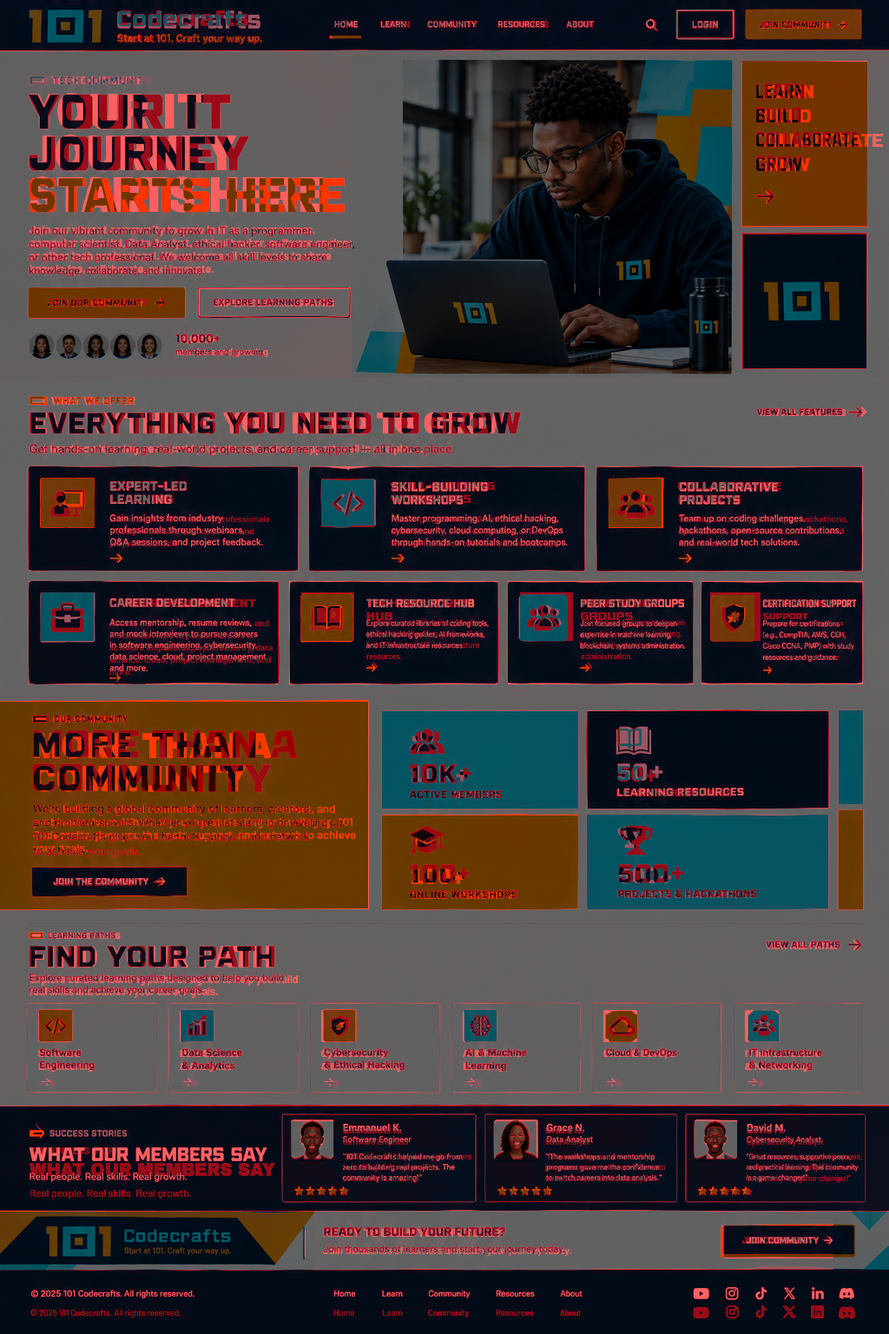
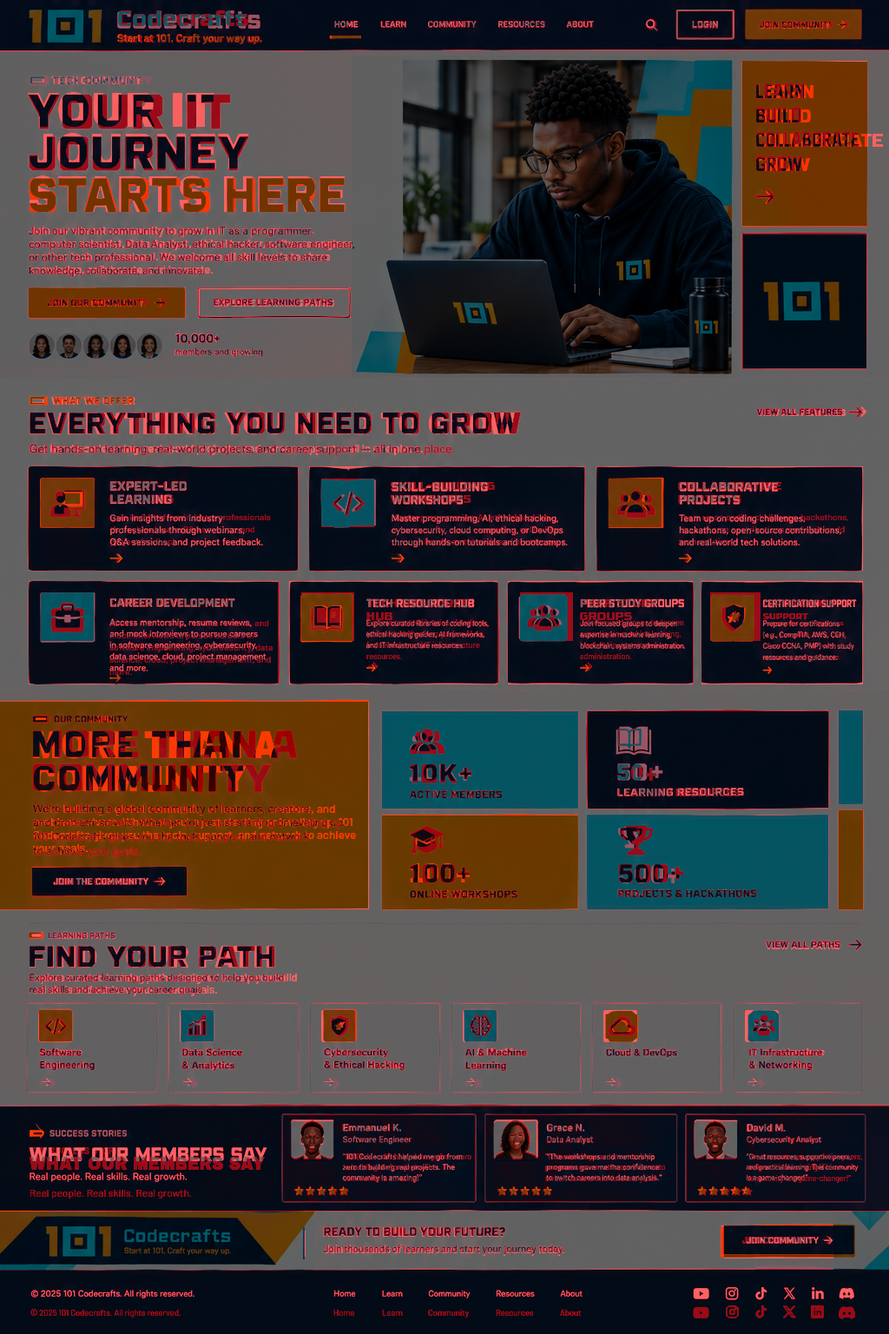
Round: auto text-fit tuner for both pages (dash 0.8399, landing 0.7611)

diff --git a/css/dashboard.fit.css b/css/dashboard.fit.css
@@ -1,0 +1,87 @@
+/* generated by tools/tune.py: per-element nudges that align text with the mockup */
+.app > :nth-child(1) > :nth-child(3){translate:-1.00px -2.00px;font-size:10.13px !important;scale:1 1.1278;transform-origin:0 0}
+.app > :nth-child(1) > :nth-child(5) > :nth-child(1) > :nth-child(2){translate:0.00px 2.00px;font-size:15.44px !important;scale:1 0.9714;transform-origin:0 0}
+.app > :nth-child(1) > :nth-child(5) > :nth-child(2) > :nth-child(2){translate:1.00px 2.00px;font-size:12.97px !important;scale:1 0.8805;transform-origin:0 0}
+.app > :nth-child(1) > :nth-child(5) > :nth-child(4) > :nth-child(2){translate:0.00px 1.00px;font-size:13.40px !important;scale:1 1.0000;transform-origin:0 0}
+.app > :nth-child(1) > :nth-child(5) > :nth-child(6) > :nth-child(2){translate:0.00px 1.00px;font-size:13.40px !important;scale:1 1.0000;transform-origin:0 0}
+.app > :nth-child(1) > :nth-child(5) > :nth-child(8) > :nth-child(2){translate:0.00px 0.00px;font-size:13.65px !important;scale:1 0.9818;transform-origin:0 0}
+.app > :nth-child(1) > :nth-child(5) > :nth-child(9) > :nth-child(2){translate:0.00px 1.00px;font-size:13.59px !important;scale:1 1.0843;transform-origin:0 0}
+.app > :nth-child(1) > :nth-child(7){translate:-1.00px 0.00px;font-size:12.68px !important;scale:1 1.0360;transform-origin:0 0}
+.app > :nth-child(1) > :nth-child(8) > :nth-child(1) > :nth-child(2){translate:0.00px 0.00px;font-size:12.97px !important;scale:1 1.0389;transform-origin:0 0}
+.app > :nth-child(1) > :nth-child(8) > :nth-child(2) > :nth-child(2){translate:0.00px 1.00px;font-size:12.77px !important;scale:1 0.8940;transform-origin:0 0}
+.app > :nth-child(1) > :nth-child(8) > :nth-child(3) > :nth-child(2){translate:0.00px 0.00px;font-size:12.73px !important;scale:1 1.0526;transform-origin:0 0}
+.app > :nth-child(1) > :nth-child(8) > :nth-child(4) > :nth-child(2){translate:0.00px 0.00px;font-size:12.91px !important;scale:1 1.0377;transform-origin:0 0}
+.app > :nth-child(1) > :nth-child(10) > :nth-child(3){translate:-1.00px 0.00px;font-size:13.00px !important;scale:1 1.0000;transform-origin:0 0}
+.app > :nth-child(3) > :nth-child(2){translate:0.00px 1.00px;font-size:11.81px !important;scale:1 1.1180;transform-origin:0 0}
+.app > :nth-child(14) > :nth-child(3){translate:0.00px 1.00px;font-size:46.40px !important;scale:1 1.0000;transform-origin:0 0}
+.app > :nth-child(16) > :nth-child(2){translate:0.00px 0.00px;font-size:22.54px !important;scale:1 0.9723;transform-origin:0 0}
+.app > :nth-child(16) > :nth-child(3){translate:0.00px -1.00px;font-size:11.14px !important;scale:1 1.1106;transform-origin:0 0}
+.app > :nth-child(17) > :nth-child(3){translate:0.00px -1.00px;font-size:10.68px !important;scale:1 1.0303;transform-origin:0 0}
+.app > :nth-child(18) > :nth-child(3){translate:0.00px -1.00px;font-size:11.15px !important;scale:1 1.0847;transform-origin:0 0}
+.app > :nth-child(21){translate:-1.00px 0.00px;font-size:15.81px !important;scale:1 1.0000;transform-origin:0 0}
+.app > :nth-child(22){translate:0.00px -1.00px;font-size:12.70px !important;scale:1 0.9924;transform-origin:0 0}
+.app > :nth-child(23){translate:1.00px 2.00px;font-size:11.84px !important;scale:1 0.9505;transform-origin:0 0}
+.app > :nth-child(24) > :nth-child(4){translate:-2.00px 1.00px;font-size:9.40px !important;scale:1 0.9577;transform-origin:0 0}
+.app > :nth-child(25) > :nth-child(3){translate:0.00px -1.00px;font-size:10.50px !important;scale:1 1.0000;transform-origin:0 0}
+.app > :nth-child(25) > :nth-child(4){translate:-2.00px 1.00px;font-size:9.36px !important;scale:1 0.9615;transform-origin:0 0}
+.app > :nth-child(26) > :nth-child(4){translate:-3.00px 0.00px;font-size:9.00px !important;scale:1 1.0000;transform-origin:0 0}
+.app > :nth-child(28) > :nth-child(4){translate:-2.00px 0.00px;font-size:9.28px !important;scale:1 0.9701;transform-origin:0 0}
+.app > :nth-child(31){translate:0.00px 0.00px;font-size:16.29px !important;scale:1 0.9639;transform-origin:0 0}
+.app > :nth-child(32){translate:1.00px -1.00px;font-size:12.17px !important;scale:1 0.9417;transform-origin:0 0}
+.app > :nth-child(34) > :nth-child(3){translate:1.00px 0.00px;font-size:10.67px !important;scale:1 0.9375;transform-origin:0 0}
+.app > :nth-child(35) > :nth-child(3){translate:0.00px 0.00px;font-size:10.78px !important;scale:1 0.9278;transform-origin:0 0}
+.app > :nth-child(36) > :nth-child(2){translate:-2.00px 0.00px;font-size:10.64px !important;scale:1 0.9872;transform-origin:0 0}
+.app > :nth-child(36) > :nth-child(3){translate:-2.00px 0.00px;font-size:10.19px !important;scale:1 1.1213;transform-origin:0 0}
+.app > :nth-child(37) > :nth-child(2){translate:-1.00px 0.00px;font-size:10.66px !important;scale:1 1.0000;transform-origin:0 0}
+.app > :nth-child(37) > :nth-child(3){translate:-1.00px 0.00px;font-size:10.66px !important;scale:1 0.9385;transform-origin:0 0}
+.app > :nth-child(39) > :nth-child(2){translate:-2.00px 0.00px;font-size:10.14px !important;scale:1 0.9860;transform-origin:0 0}
+.app > :nth-child(39) > :nth-child(3){translate:-2.00px 0.00px;font-size:9.77px !important;scale:1 1.0233;transform-origin:0 0}
+.app > :nth-child(42){translate:0.00px -3.00px;font-size:12.56px !important;scale:1 1.0000;transform-origin:0 0}
+.app > :nth-child(43) > :nth-child(2){translate:0.00px -1.00px;font-size:10.00px !important;scale:1 1.0000;transform-origin:0 0}
+.app > :nth-child(43) > :nth-child(3){translate:0.00px -3.00px;font-size:9.38px !important;scale:1 1.1963;transform-origin:0 0}
+.app > :nth-child(43) > :nth-child(5){translate:-1.00px 3.00px;font-size:9.50px !important;scale:1 1.0000;transform-origin:0 0}
+.app > :nth-child(43) > :nth-child(6){translate:0.00px 5.00px;font-size:8.32px !important;scale:1 0.9035;transform-origin:0 0}
+.app > :nth-child(44) > :nth-child(3){translate:2.00px -1.00px;font-size:9.50px !important;scale:1 1.0000;transform-origin:0 0}
+.app > :nth-child(44) > :nth-child(4){translate:-1.00px 0.00px;font-size:10.80px !important;scale:1 1.0000;transform-origin:0 0}
+.app > :nth-child(44) > :nth-child(5){translate:-2.00px 4.00px;font-size:9.87px !important;scale:1 0.9782;transform-origin:0 0}
+.app > :nth-child(44) > :nth-child(6){translate:0.00px 6.00px;font-size:9.00px !important;scale:1 0.9178;transform-origin:0 0}
+.app > :nth-child(45) > :nth-child(2){translate:1.00px 0.00px;font-size:9.46px !important;scale:1 1.0571;transform-origin:0 0}
+.app > :nth-child(45) > :nth-child(3){translate:1.00px -1.00px;font-size:8.98px !important;scale:1 1.0575;transform-origin:0 0}
+.app > :nth-child(45) > :nth-child(5){translate:-1.00px 4.00px;font-size:9.88px !important;scale:1 0.9768;transform-origin:0 0}
+.app > :nth-child(45) > :nth-child(6){translate:0.00px 6.00px;font-size:8.29px !important;scale:1 0.9223;transform-origin:0 0}
+.app > :nth-child(46) > :nth-child(3){translate:0.00px 0.00px;font-size:14.88px !important;scale:1 1.0802;transform-origin:0 0}
+.app > :nth-child(48) > :nth-child(2){translate:1.00px 1.00px;font-size:14.00px !important;scale:1 1.0070;transform-origin:0 0}
+.app > :nth-child(57) > :nth-child(2){translate:0.00px 1.00px;font-size:10.08px !important;scale:1 1.1019;transform-origin:0 0}
+.app > :nth-child(57) > :nth-child(3){translate:1.00px -6.00px;font-size:9.08px !important;scale:1 1.0000;transform-origin:0 0}
+.app > :nth-child(57) > :nth-child(4){translate:7.00px 3.00px;font-size:8.00px !important;scale:1 1.0000;transform-origin:0 0}
+.app > :nth-child(58) > :nth-child(2){translate:0.00px 1.00px;font-size:10.25px !important;scale:1 1.0842;transform-origin:0 0}
+.app > :nth-child(58) > :nth-child(3){translate:0.00px 0.00px;font-size:9.26px !important;scale:1 1.0000;transform-origin:0 0}
+.app > :nth-child(58) > :nth-child(4){translate:8.00px 3.00px;font-size:8.62px !important;scale:1 0.9286;transform-origin:0 0}
+.app > :nth-child(59) > :nth-child(2){translate:1.00px 1.00px;font-size:10.20px !important;scale:1 1.0889;transform-origin:0 0}
+.app > :nth-child(59) > :nth-child(3){translate:1.00px 3.00px;font-size:9.54px !important;scale:1 1.0487;transform-origin:0 0}
+.app > :nth-child(59) > :nth-child(4){translate:6.00px 4.00px;font-size:8.00px !important;scale:1 1.0000;transform-origin:0 0}
+.app > :nth-child(60) > :nth-child(2){translate:1.00px 3.00px;font-size:9.85px !important;scale:1 1.1285;transform-origin:0 0}
+.app > :nth-child(60) > :nth-child(3){translate:0.00px -6.00px;font-size:9.36px !important;scale:1 1.0000;transform-origin:0 0}
+.app > :nth-child(60) > :nth-child(4){translate:8.00px 6.00px;font-size:8.74px !important;scale:1 1.0619;transform-origin:0 0}
+.app > :nth-child(63){translate:0.00px -1.00px;font-size:13.63px !important;scale:1 0.9903;transform-origin:0 0}
+.app > :nth-child(64){translate:1.00px 0.00px;font-size:10.50px !important;scale:1 1.0000;transform-origin:0 0}
+.app > :nth-child(65) > :nth-child(1) > :nth-child(1){translate:1.00px -1.00px;font-size:10.56px !important;scale:1 1.0000;transform-origin:0 0}
+.app > :nth-child(65) > :nth-child(1) > :nth-child(2){translate:1.00px 0.00px;font-size:21.18px !important;scale:1 1.0641;transform-origin:0 0}
+.app > :nth-child(65) > :nth-child(3){translate:1.00px -1.00px;font-size:11.48px !important;scale:1 1.0538;transform-origin:0 0}
+.app > :nth-child(65) > :nth-child(4){translate:0.00px -1.00px;font-size:10.33px !important;scale:1 1.0509;transform-origin:0 0}
+.app > :nth-child(65) > :nth-child(5){translate:0.00px -2.00px;font-size:9.50px !important;scale:1 1.0000;transform-origin:0 0}
+.app > :nth-child(66) > :nth-child(1) > :nth-child(1){translate:1.00px -2.00px;font-size:10.56px !important;scale:1 1.0000;transform-origin:0 0}
+.app > :nth-child(66) > :nth-child(1) > :nth-child(2){translate:1.00px 0.00px;font-size:22.35px !important;scale:1 1.0081;transform-origin:0 0}
+.app > :nth-child(66) > :nth-child(3){translate:0.00px -3.00px;font-size:11.29px !important;scale:1 1.0720;transform-origin:0 0}
+.app > :nth-child(66) > :nth-child(4){translate:1.00px -2.00px;font-size:10.27px !important;scale:1 1.0571;transform-origin:0 0}
+.app > :nth-child(66) > :nth-child(5){translate:0.00px -2.00px;font-size:9.50px !important;scale:1 1.1429;transform-origin:0 0}
+.app > :nth-child(67) > :nth-child(1) > :nth-child(1){translate:1.00px -1.00px;font-size:10.56px !important;scale:1 1.0000;transform-origin:0 0}
+.app > :nth-child(67) > :nth-child(1) > :nth-child(2){translate:1.00px 0.00px;font-size:19.05px !important;scale:1 1.1375;transform-origin:0 0}
+.app > :nth-child(67) > :nth-child(3){translate:0.00px -2.00px;font-size:11.14px !important;scale:1 0.9872;transform-origin:0 0}
+.app > :nth-child(67) > :nth-child(4){translate:1.00px -2.00px;font-size:10.91px !important;scale:1 0.9677;transform-origin:0 0}
+.app > :nth-child(67) > :nth-child(5){translate:0.00px -1.00px;font-size:9.50px !important;scale:1 1.0000;transform-origin:0 0}
+.app > :nth-child(68) > :nth-child(2){translate:0.00px 1.00px;font-size:15.50px !important;scale:1 1.0000;transform-origin:0 0}
+.app > :nth-child(69) > :nth-child(1){translate:-1.00px -1.00px;font-size:10.42px !important;scale:1 1.0971;transform-origin:0 0}
+.app > :nth-child(69) > :nth-child(2){translate:-1.00px -1.00px;font-size:10.00px !important;scale:1 1.1429;transform-origin:0 0}
+.app > :nth-child(69) > :nth-child(4){translate:0.00px -1.00px;font-size:10.00px !important;scale:1 1.0000;transform-origin:0 0}
+.app > :nth-child(69) > :nth-child(5){translate:0.00px -1.00px;font-size:10.00px !important;scale:1 1.1429;transform-origin:0 0}

diff --git a/css/landing.fit.css b/css/landing.fit.css
@@ -1,0 +1,47 @@
+/* generated by tools/tune.py: per-element nudges that align text with the mockup */
+.page > :nth-child(1) > :nth-child(4) > :nth-child(2){translate:0.00px 1.00px;font-size:9.23px !important;scale:1 1.1379;transform-origin:0 0}
+.page > :nth-child(1) > :nth-child(4) > :nth-child(3){translate:1.00px 0.00px;font-size:9.96px !important;scale:1 1.0545;transform-origin:0 0}
+.page > :nth-child(1) > :nth-child(4) > :nth-child(4){translate:1.00px 0.00px;font-size:9.61px !important;scale:1 1.0926;transform-origin:0 0}
+.page > :nth-child(1) > :nth-child(4) > :nth-child(5){translate:1.00px 0.00px;font-size:9.86px !important;scale:1 1.0645;transform-origin:0 0}
+.page > :nth-child(4){translate:-1.00px 0.00px;font-size:46.81px !important;scale:1 0.9955;transform-origin:0 0}
+.page > :nth-child(6){translate:-1.00px 0.00px;font-size:47.38px !important;scale:1 1.0228;transform-origin:0 0}
+.page > :nth-child(7){translate:-1.00px 1.00px;font-size:13.00px !important;scale:1 1.0000;transform-origin:0 0}
+.page > :nth-child(15){translate:0.00px -1.00px;font-size:15.19px !important;scale:1 1.0300;transform-origin:0 0}
+.page > :nth-child(16){translate:-2.00px 0.00px;font-size:10.58px !important;scale:1 1.0396;transform-origin:0 0}
+.page > :nth-child(21){translate:-2.00px -1.00px;font-size:29.47px !important;scale:1 1.0659;transform-origin:0 0}
+.page > :nth-child(24) > :nth-child(3){translate:1.00px -2.00px;font-size:10.50px !important;scale:1 1.0000;transform-origin:0 0}
+.page > :nth-child(25) > :nth-child(3){translate:1.00px -2.00px;font-size:10.50px !important;scale:1 1.0000;transform-origin:0 0}
+.page > :nth-child(26) > :nth-child(3){translate:1.00px -2.00px;font-size:10.50px !important;scale:1 1.0000;transform-origin:0 0}
+.page > :nth-child(27) > :nth-child(2){translate:1.00px -2.00px;font-size:11.42px !important;scale:1 1.1900;transform-origin:0 0}
+.page > :nth-child(29) > :nth-child(2){translate:-1.00px 0.00px;font-size:13.50px !important;scale:1 1.0000;transform-origin:0 0}
+.page > :nth-child(29) > :nth-child(3){translate:-1.00px 0.00px;font-size:9.00px !important;scale:1 1.0000;transform-origin:0 0}
+.page > :nth-child(31) > :nth-child(1){translate:1.00px 0.00px;font-size:11.00px !important;scale:1 1.0000;transform-origin:0 0}
+.page > :nth-child(31) > :nth-child(2){translate:-1.00px -2.00px;font-size:36.02px !important;scale:1 1.0179;transform-origin:0 0}
+.page > :nth-child(31) > :nth-child(5){translate:0.00px -1.00px;font-size:10.50px !important;scale:1 1.0000;transform-origin:0 0}
+.page > :nth-child(32) > :nth-child(2){translate:-3.00px -2.00px;font-size:26.62px !important;scale:1 1.0000;transform-origin:0 0}
+.page > :nth-child(32) > :nth-child(3){translate:0.00px -1.00px;font-size:12.47px !important;scale:1 1.0825;transform-origin:0 0}
+.page > :nth-child(33) > :nth-child(2){translate:0.00px -3.00px;font-size:24.00px !important;scale:1 1.1111;transform-origin:0 0}
+.page > :nth-child(33) > :nth-child(3){translate:1.00px -2.00px;font-size:12.72px !important;scale:1 1.1032;transform-origin:0 0}
+.page > :nth-child(35) > :nth-child(2){translate:-2.00px -6.00px;font-size:27.20px !important;scale:1 1.0890;transform-origin:0 0}
+.page > :nth-child(35) > :nth-child(3){translate:0.00px -2.00px;font-size:12.40px !important;scale:1 1.0887;transform-origin:0 0}
+.page > :nth-child(36) > :nth-child(2){translate:1.00px -4.00px;font-size:27.15px !important;scale:1 1.1025;transform-origin:0 0}
+.page > :nth-child(36) > :nth-child(3){translate:0.00px -2.00px;font-size:12.31px !important;scale:1 1.0969;transform-origin:0 0}
+.page > :nth-child(39){translate:-2.00px -1.00px;font-size:9.61px !important;scale:1 1.0568;transform-origin:0 0}
+.page > :nth-child(40){translate:-1.00px 0.00px;font-size:30.21px !important;scale:1 0.9930;transform-origin:0 0}
+.page > :nth-child(41){translate:-1.00px -2.00px;font-size:12.50px !important;scale:1 1.0000;transform-origin:0 0}
+.page > :nth-child(42){translate:0.00px 0.00px;font-size:11.41px !important;scale:1 0.9640;transform-origin:0 0}
+.page > :nth-child(43) > :nth-child(2){translate:2.00px -2.00px;font-size:12.00px !important;scale:1 1.0000;transform-origin:0 0}
+.page > :nth-child(44) > :nth-child(2){translate:3.00px -2.00px;font-size:12.00px !important;scale:1 1.0000;transform-origin:0 0}
+.page > :nth-child(45) > :nth-child(2){translate:3.00px -2.00px;font-size:12.00px !important;scale:1 1.0000;transform-origin:0 0}
+.page > :nth-child(46) > :nth-child(2){translate:3.00px -2.00px;font-size:12.00px !important;scale:1 1.0000;transform-origin:0 0}
+.page > :nth-child(47) > :nth-child(2){translate:3.00px -2.00px;font-size:11.86px !important;scale:1 1.1134;transform-origin:0 0}
+.page > :nth-child(48) > :nth-child(2){translate:5.00px -2.00px;font-size:12.00px !important;scale:1 1.0000;transform-origin:0 0}
+.page > :nth-child(51){translate:0.00px -6.00px;font-size:18.67px !important;scale:1 1.0000;transform-origin:0 0}
+.page > :nth-child(53) > :nth-child(2){translate:-1.00px -3.00px;font-size:11.98px !important;scale:1 1.0149;transform-origin:0 0}
+.page > :nth-child(53) > :nth-child(3){translate:0.00px -3.00px;font-size:9.88px !important;scale:1 1.0060;transform-origin:0 0}
+.page > :nth-child(54) > :nth-child(2){translate:2.00px -3.00px;font-size:11.73px !important;scale:1 1.0000;transform-origin:0 0}
+.page > :nth-child(54) > :nth-child(3){translate:1.00px -3.00px;font-size:10.28px !important;scale:1 1.0911;transform-origin:0 0}
+.page > :nth-child(55) > :nth-child(2){translate:-1.00px -3.00px;font-size:12.78px !important;scale:1 1.0000;transform-origin:0 0}
+.page > :nth-child(55) > :nth-child(3){translate:0.00px -3.00px;font-size:9.28px !important;scale:1 1.0915;transform-origin:0 0}
+.page > :nth-child(56) > :nth-child(3){translate:0.00px -1.00px;font-size:14.34px !important;scale:1 1.0845;transform-origin:0 0}
+.page > :nth-child(56) > :nth-child(4){translate:1.00px -3.00px;font-size:11.62px !important;scale:1 1.1357;transform-origin:0 0}

diff --git a/index.html b/index.html
@@ -8,6 +8,7 @@
 <link rel="preload" href="assets/fonts/archivo-black-400.woff2" as="font" type="font/woff2" crossorigin>
 <link rel="stylesheet" href="css/brutal.css">
 <link rel="stylesheet" href="css/landing.css">
+<link rel="stylesheet" id="fitcss" href="css/landing.fit.css">
 </head>
 <body data-page="landing">
 <svg xmlns="http://www.w3.org/2000/svg" style="display:none">
@@ -91,9 +92,9 @@
 <!-- ============ HERO ============ -->
 <section class="lhero"><canvas class="fx-canvas" data-fx="grid"></canvas></section>
 <div class="eyebrow" style="left:35px;top:84px;color:#00b9e6"><i></i>TECH COMMUNITY</div>
-<h1 class="disp split" style="left:33px;top:100px;font-size:44px;transform:scaleY(1.285);color:var(--nv)">YOUR IT</h1>
-<div class="disp split" style="left:33px;top:148px;font-size:44px;transform:scaleY(1.285);color:var(--nv)">JOURNEY</div>
-<div class="disp split" style="left:33px;top:196px;font-size:44px;transform:scaleY(1.285);color:var(--lor)">STARTS HERE</div>
+<h1 class="disp split" style="left:33px;top:100px;font-size:46.6px;transform:scaleY(1.208);color:var(--nv)">YOUR IT</h1>
+<div class="disp split" style="left:33px;top:148px;font-size:46.6px;transform:scaleY(1.208);color:var(--nv)">JOURNEY</div>
+<div class="disp split" style="left:33px;top:196px;font-size:46.6px;transform:scaleY(1.208);color:var(--lor)">STARTS HERE</div>
 <p style="left:34px;top:257px;width:385px;font-size:13px;line-height:15px;font-weight:500;color:var(--nv)">Join our vibrant community to grow in IT as a programmer, computer scientist, Data Analyst, ethical hacker, software engineer, or other tech professional. We welcome all skill levels to share knowledge, collaborate, and innovate.</p>
 <a class="btn-or hov" href="dashboard.html" style="left:33px;top:331px;width:180px;height:35px">JOIN OUR COMMUNITY <svg class="i" style="width:15px;height:15px"><use href="#i-arrow"/></svg></a>
 <a class="btn-ol hov" href="#paths" style="left:228px;top:331px;width:176px;height:35px">EXPLORE LEARNING PATHS</a>

diff --git a/src/index.html b/src/index.html
@@ -8,6 +8,7 @@
 <link rel="preload" href="assets/fonts/archivo-black-400.woff2" as="font" type="font/woff2" crossorigin>
 <link rel="stylesheet" href="css/brutal.css">
 <link rel="stylesheet" href="css/landing.css">
+<link rel="stylesheet" id="fitcss" href="css/landing.fit.css">
 </head>
 <body data-page="landing">
 {{ICONS}}
@@ -33,9 +34,9 @@
 <!-- ============ HERO ============ -->
 <section class="lhero"><canvas class="fx-canvas" data-fx="grid"></canvas></section>
 <div class="eyebrow" style="left:35px;top:84px;color:#00b9e6"><i></i>TECH COMMUNITY</div>
-<h1 class="disp split" style="left:33px;top:100px;font-size:44px;transform:scaleY(1.285);color:var(--nv)">YOUR IT</h1>
-<div class="disp split" style="left:33px;top:148px;font-size:44px;transform:scaleY(1.285);color:var(--nv)">JOURNEY</div>
-<div class="disp split" style="left:33px;top:196px;font-size:44px;transform:scaleY(1.285);color:var(--lor)">STARTS HERE</div>
+<h1 class="disp split" style="left:33px;top:100px;font-size:46.6px;transform:scaleY(1.208);color:var(--nv)">YOUR IT</h1>
+<div class="disp split" style="left:33px;top:148px;font-size:46.6px;transform:scaleY(1.208);color:var(--nv)">JOURNEY</div>
+<div class="disp split" style="left:33px;top:196px;font-size:46.6px;transform:scaleY(1.208);color:var(--lor)">STARTS HERE</div>
 <p style="left:34px;top:257px;width:385px;font-size:13px;line-height:15px;font-weight:500;color:var(--nv)">Join our vibrant community to grow in IT as a programmer, computer scientist, Data Analyst, ethical hacker, software engineer, or other tech professional. We welcome all skill levels to share knowledge, collaborate, and innovate.</p>
 <a class="btn-or hov" href="dashboard.html" style="left:33px;top:331px;width:180px;height:35px">JOIN OUR COMMUNITY <svg class="i" style="width:15px;height:15px"><use href="#i-arrow"/></svg></a>
 <a class="btn-ol hov" href="#paths" style="left:228px;top:331px;width:176px;height:35px">EXPLORE LEARNING PATHS</a>

diff --git a/dashboard.html b/dashboard.html
@@ -7,6 +7,7 @@
 <link rel="preload" href="assets/fonts/archivo-black-400.woff2" as="font" type="font/woff2" crossorigin>
 <link rel="stylesheet" href="css/brutal.css">
 <link rel="stylesheet" href="css/dashboard.css">
+<link rel="stylesheet" id="fitcss" href="css/dashboard.fit.css">
 </head>
 <body data-page="dashboard" data-role="member">
 <svg xmlns="http://www.w3.org/2000/svg" style="display:none">

diff --git a/src/dashboard.html b/src/dashboard.html
@@ -7,6 +7,7 @@
 <link rel="preload" href="assets/fonts/archivo-black-400.woff2" as="font" type="font/woff2" crossorigin>
 <link rel="stylesheet" href="css/brutal.css">
 <link rel="stylesheet" href="css/dashboard.css">
+<link rel="stylesheet" id="fitcss" href="css/dashboard.fit.css">
 </head>
 <body data-page="dashboard" data-role="member">
 {{ICONS}}

diff --git a/tools/tune.py b/tools/tune.py
@@ -1,0 +1,114 @@
+"""Auto-fit text elements to the mockup.
+For every leaf text element: find its ink box in the mockup and in the render (same local window),
+then nudge position (translate) and, for single-line text, font-size / vertical scale so the boxes match.
+A change is kept only if the local SSIM of that element's window improves.
+Writes css/<page>.fit.css (plain CSS overrides keyed by structural selectors).
+usage: tune.py page.html ref.png W H out.css [passes]
+"""
+import sys, os, json, asyncio, io
+import numpy as np
+from PIL import Image
+from skimage.metrics import structural_similarity as ssim
+from playwright.async_api import async_playwright
+
+page, refp, W, H, outcss = sys.argv[1], sys.argv[2], int(sys.argv[3]), int(sys.argv[4]), sys.argv[5]
+PASSES = int(sys.argv[6]) if len(sys.argv) > 6 else 4
+REF = np.array(Image.open(refp).convert('L')).astype(float)
+PX, PY = 6, 4
+
+JS_COLLECT = r"""
+() => {
+  const root = document.querySelector('.app, .page');
+  const out = [];
+  const path = el => { const p=[]; while (el && el !== root) { const i=[...el.parentElement.children].indexOf(el)+1; p.unshift(`:nth-child(${i})`); el = el.parentElement; } return (root.classList.contains('app')?'.app':'.page')+' > '+p.join(' > '); };
+  root.querySelectorAll('*').forEach(el => {
+    if (el.closest('svg')) return;
+    const own = [...el.childNodes].some(n => n.nodeType===3 && n.textContent.trim().length>1);
+    if (!own) return;
+    const r = el.getBoundingClientRect();
+    if (r.width<4 || r.height<4) return;
+    const cs = getComputedStyle(el);
+    const lh = parseFloat(cs.lineHeight) || parseFloat(cs.fontSize)*1.25;
+    out.push({sel:path(el), x:r.left, y:r.top, w:r.width, h:r.height, fs:parseFloat(cs.fontSize), single: r.height < lh*1.6});
+  });
+  return out;
+}"""
+
+def ink(a):
+    border = np.concatenate([a[0], a[-1], a[:, 0], a[:, -1]])
+    bg = np.median(border)
+    m = np.abs(a - bg) > 55
+    ys, xs = np.where(m)
+    if len(xs) < 6: return None
+    return xs.min(), ys.min(), xs.max() + 1, ys.max() + 1
+
+def win(e):
+    x0 = max(0, int(e['x'] - PX)); y0 = max(0, int(e['y'] - PY))
+    x1 = min(W, int(e['x'] + e['w'] + PX)); y1 = min(H, int(e['y'] + e['h'] + PY))
+    return x0, y0, x1, y1
+
+def lssim(A, B, w):
+    x0, y0, x1, y1 = w
+    a, b = A[y0:y1, x0:x1], B[y0:y1, x0:x1]
+    if min(a.shape) < 7: return 0
+    return ssim(a, b, data_range=255)
+
+async def main():
+    async with async_playwright() as p:
+        br = await p.chromium.launch(executable_path='/usr/bin/chromium', args=['--no-sandbox', '--font-render-hinting=none'])
+        pg = await br.new_page(viewport={'width': W, 'height': H})
+        await pg.goto('file://' + os.path.abspath(page) + '?static=1&notune=1')
+        await pg.evaluate('document.fonts.ready'); await pg.wait_for_timeout(300)
+        await pg.evaluate("()=>{const l=document.getElementById('fitcss'); if(l) l.remove();}"); await pg.wait_for_timeout(100)
+        els = await pg.evaluate(JS_COLLECT)
+        state = {e['sel']: {'dx': 0.0, 'dy': 0.0, 'fs': e['fs'], 'k': 1.0, 'fs0': e['fs']} for e in els}
+        info = {e['sel']: e for e in els}
+
+        async def apply(st):
+            css = ''.join(f"{s}{{translate:{v['dx']:.2f}px {v['dy']:.2f}px;font-size:{v['fs']:.2f}px !important;scale:1 {v['k']:.4f};transform-origin:0 0}}\n" for s, v in st.items() if v['dx'] or v['dy'] or v['fs'] != v['fs0'] or v['k'] != 1)
+            await pg.evaluate("css => { let s=document.getElementById('__tune'); if(!s){s=document.createElement('style');s.id='__tune';document.head.appendChild(s);} s.textContent=css; }", css)
+            await pg.wait_for_timeout(60)
+            return css
+
+        async def shot():
+            b = await pg.screenshot()
+            return np.array(Image.open(io.BytesIO(b)).convert('L')).astype(float)
+
+        await apply(state)
+        cur = await shot()
+        base = {s: lssim(REF, cur, win(info[s])) for s in state}
+        print('elements', len(els), 'mean local ssim', round(float(np.mean(list(base.values()))), 4))
+        for it in range(PASSES):
+            prop = {}
+            for s, e in info.items():
+                w = win(e); x0, y0, x1, y1 = w
+                # account for current translate when locating the window
+                v = state[s]
+                w2 = (max(0, int(x0 + v['dx'])), max(0, int(y0 + v['dy'])), min(W, int(x1 + v['dx']) + 1), min(H, int(y1 + v['dy']) + 1))
+                a = ink(REF[w2[1]:w2[3], w2[0]:w2[2]]); b = ink(cur[w2[1]:w2[3], w2[0]:w2[2]])
+                if not a or not b: continue
+                nv = dict(v)
+                if e['single'] and it < PASSES - 1:
+                    rw, bw = a[2] - a[0], b[2] - b[0]; rh, bh = a[3] - a[1], b[3] - b[1]
+                    if bw > 8 and 0.85 < rw / bw < 1.15: nv['fs'] = v['fs'] * rw / bw
+                    if bh > 5 and 0.85 < (rh / bh) < 1.15: nv['k'] = max(.85, min(1.3, v['k'] * (rh / bh) / (rw / bw if bw > 8 and 0.85 < rw / bw < 1.15 else 1)))
+                nv['dx'] = v['dx'] + max(-6, min(6, a[0] - b[0]))
+                nv['dy'] = v['dy'] + max(-6, min(6, a[1] - b[1]))
+                prop[s] = nv
+            trial = dict(state); trial.update(prop)
+            await apply(trial)
+            new = await shot()
+            kept = 0
+            for s in prop:
+                w = win(info[s]); w = (max(0, w[0] - 6), max(0, w[1] - 6), min(W, w[2] + 6), min(H, w[3] + 6))
+                if lssim(REF, new, w) > lssim(REF, cur, w) + 0.002:
+                    state[s] = prop[s]; kept += 1
+            await apply(state)
+            cur = await shot()
+            full = ssim(REF, cur, data_range=255)
+            print(f'pass {it+1}: kept {kept}/{len(prop)} gray-ssim {full:.4f}')
+        css = await apply(state)
+        open(outcss, 'w').write('/* generated by tools/tune.py: per-element nudges that align text with the mockup */\n' + css)
+        await br.close()
+
+asyncio.run(main())

diff --git a/compare/scores.md b/compare/scores.md
@@ -8,3 +8,5 @@ Screenshots taken with headless Chromium at the mockup viewport, `?static=1` (an
 | dashboard | 2 | 0.8053 | activity 0.688, latest 0.718 | hero heading calibrated to Russo One 51.6px, photo layered over hero (laptop overlap), sidebar text sizes |
 | dashboard | 3 | 0.8116 | activity 0.707, latest 0.718 | heading baseline, activity card text, tool descriptions |
 | landing | 1 | 0.7358 | testimonials 0.538, hero_text 0.609, features 0.630 | first full draft |
+| landing | 2 | 0.7611 | testimonials 0.577, features 0.643, hero_text 0.677 | Archivo Black hero (glyph-SSIM font search) + automatic per-element text fit (tools/tune.py) |
+| dashboard | 8 | 0.8399 | activity 0.756, latest 0.772, featured 0.789 | automatic per-element text fit (tools/tune.py, 5 passes) |
